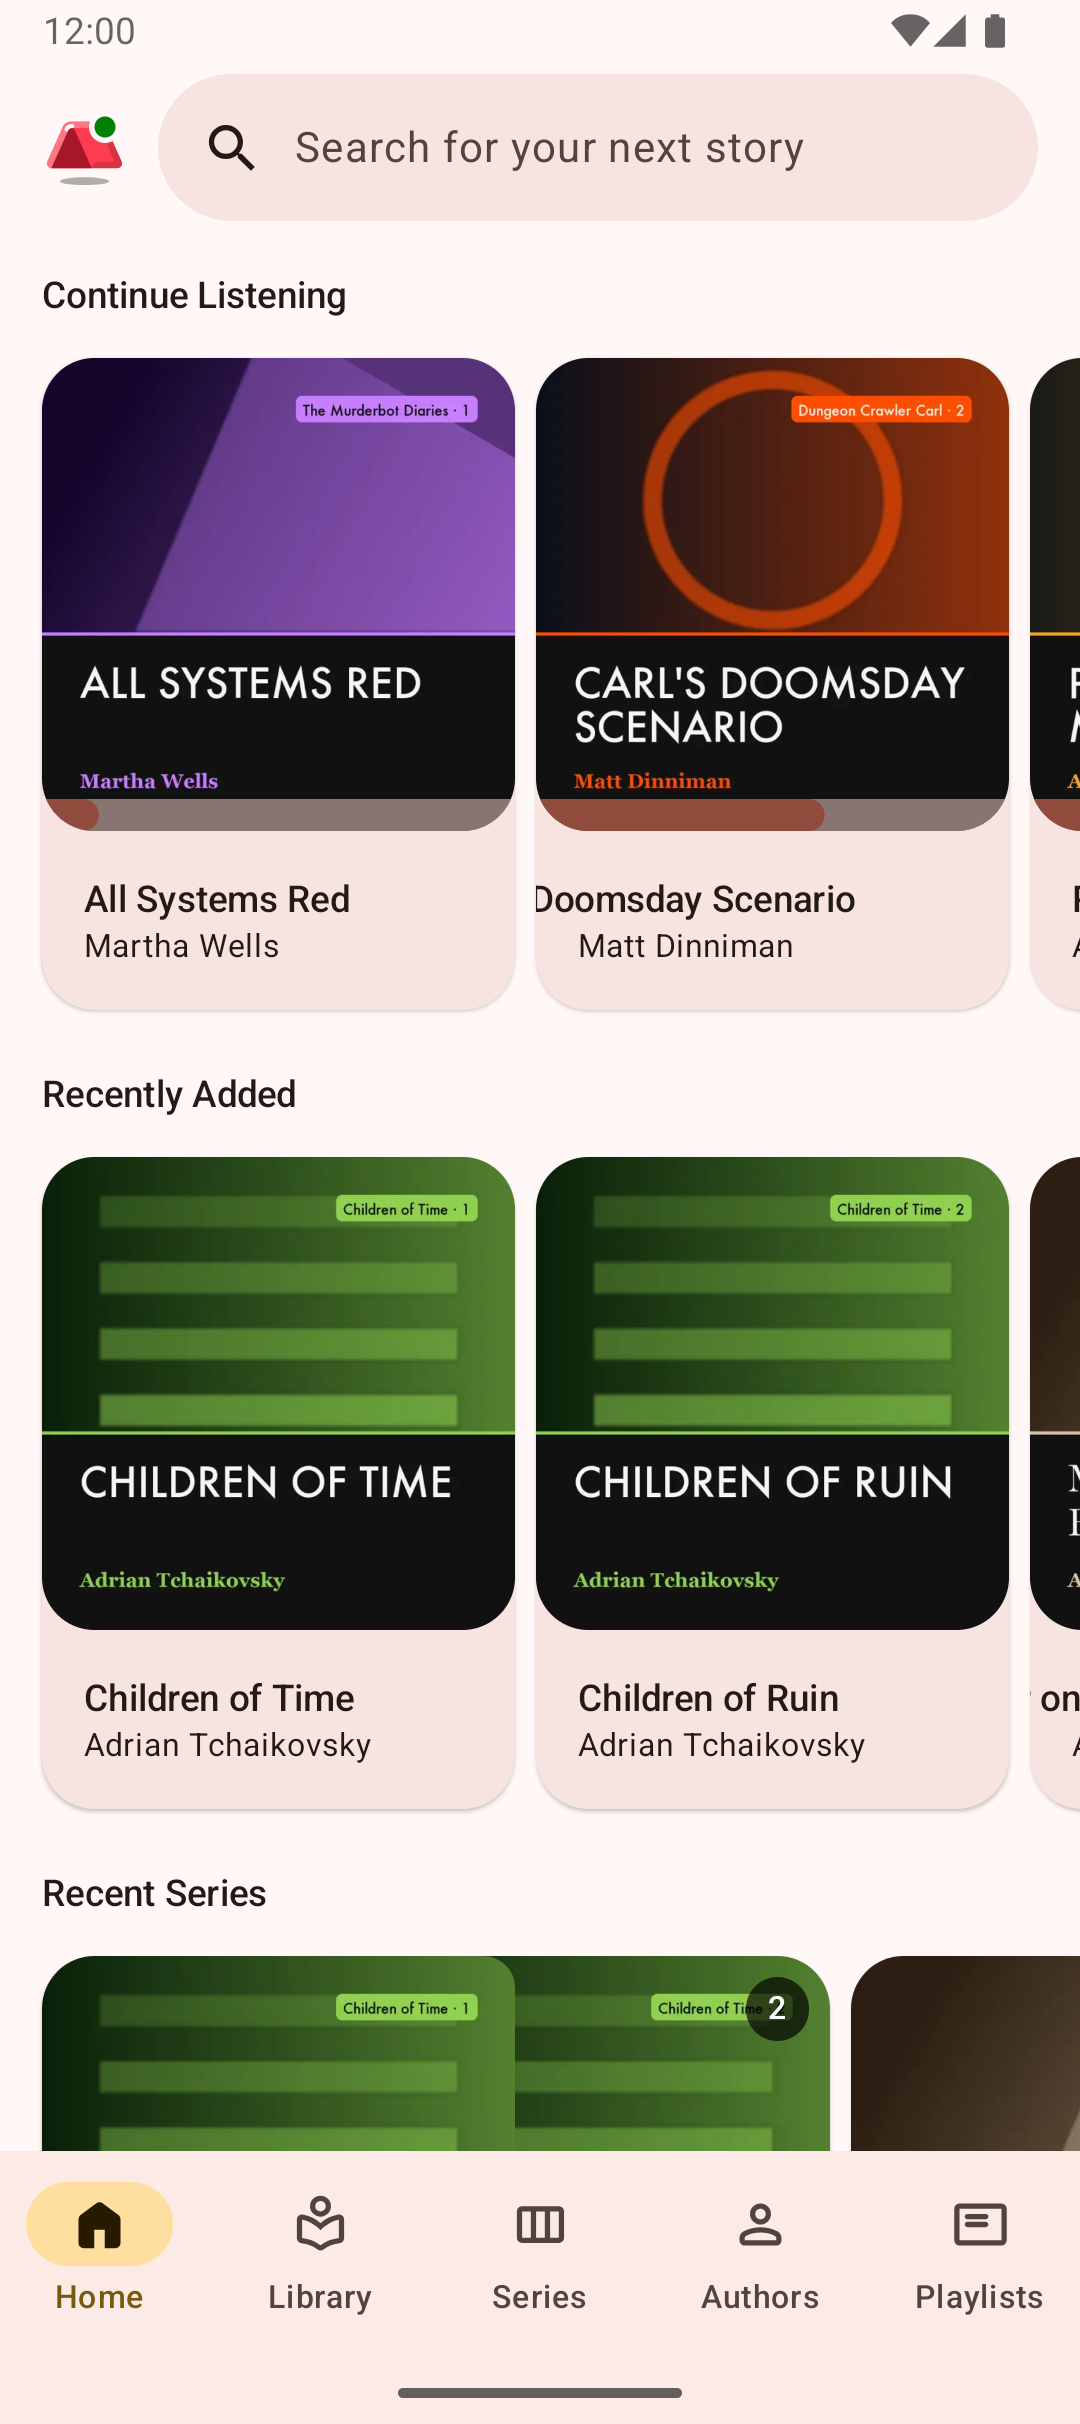
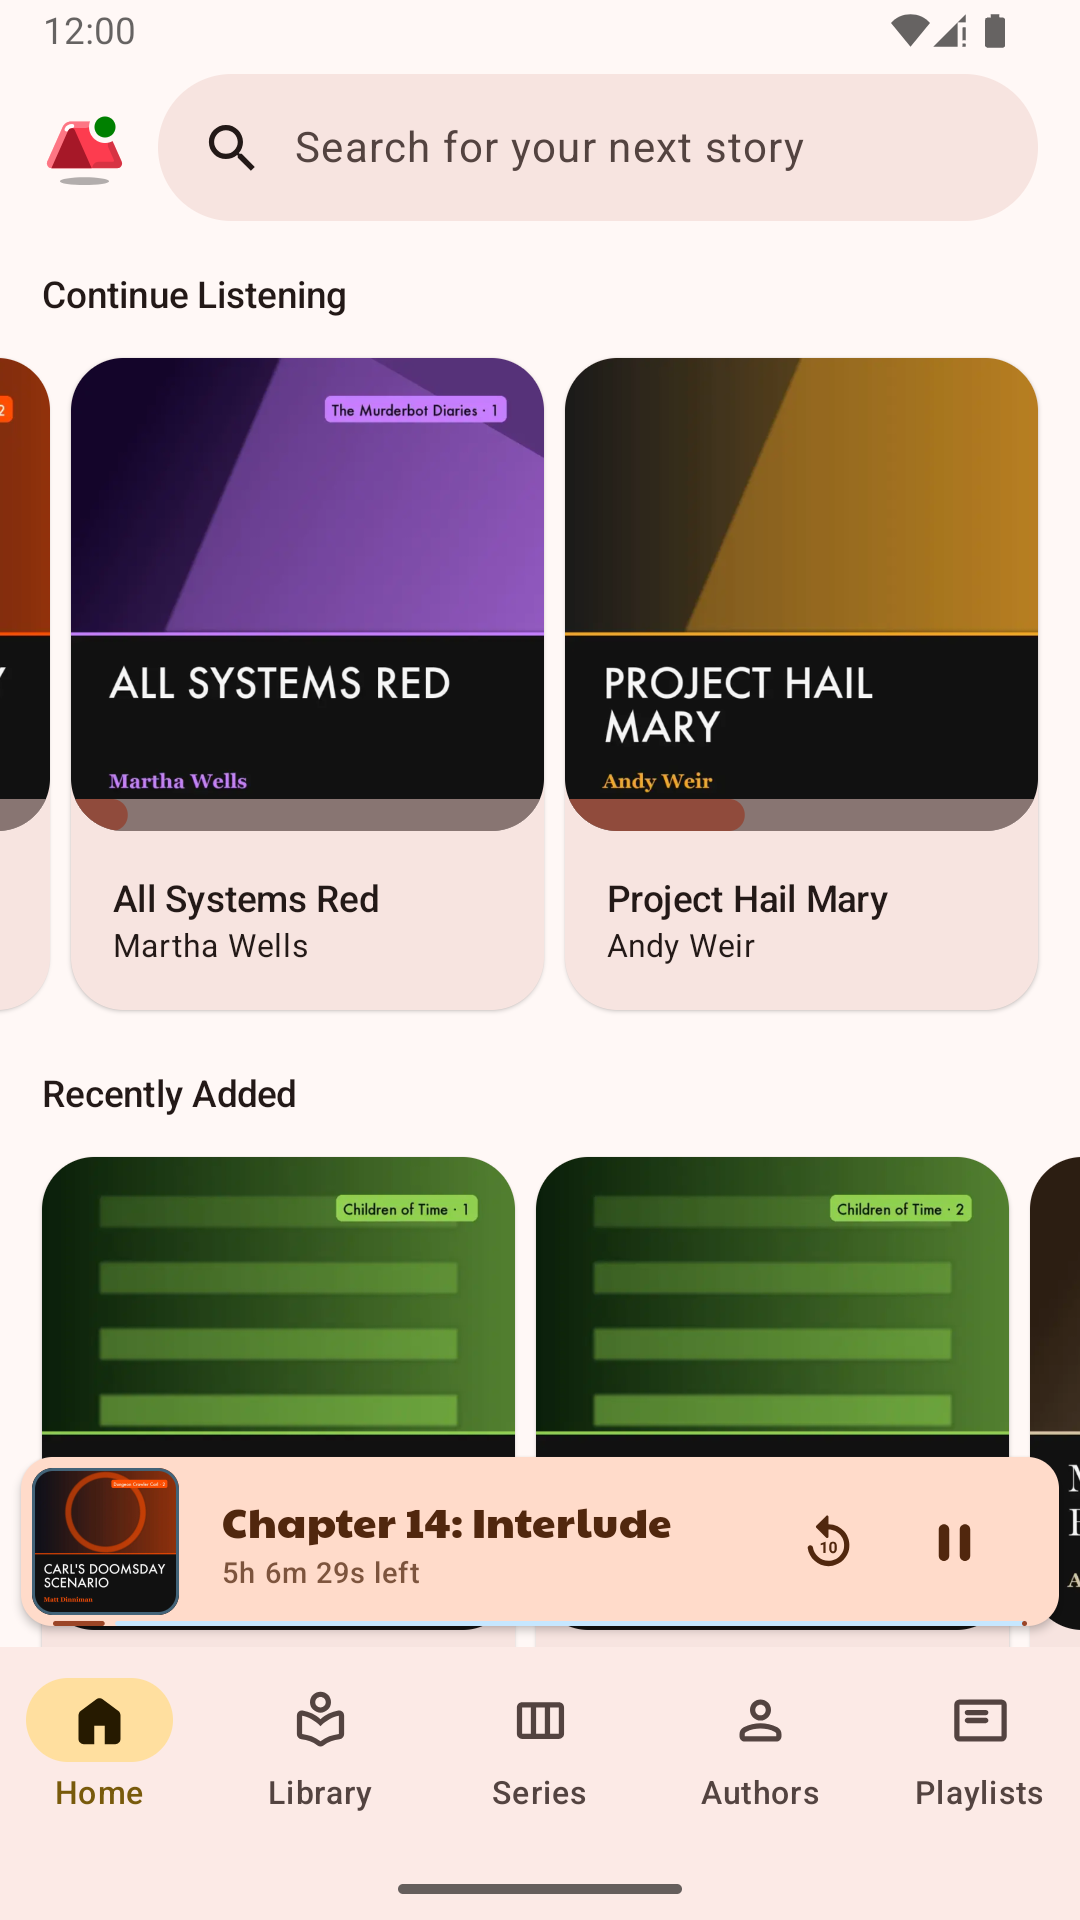
Reshoot store screenshots at 9:16 with the curated 8-shot spec
Tooling fixes found along the way: the emulator clock and the seeded
listening sessions now share one pinned instant (today 12:00) so the
statistics screen loads instead of spinning on a session in the device's
future; mobile data is disabled on the emulator so the RAT label cannot
appear in the status bar; the Home shot waits for playback before
navigating so the mini player shows its cover.

diff --git a/tools/screenshots/campfire_shots/emulator.py b/tools/screenshots/campfire_shots/emulator.py
@@ -6,7 +6,7 @@ import subprocess
 import time
 from pathlib import Path
 
-from .config import DeviceClass, WORK_DIR
+from .config import DeviceClass, WORK_DIR, pinned_now
 from .proc import ShotError, log, out, run, wait_until, which
 
 SDK = Path(os.environ.get("ANDROID_HOME") or os.environ.get("ANDROID_SDK_ROOT") or "~/Library/Android/sdk").expanduser()
@@ -258,6 +258,8 @@ def prepare(adb: Adb) -> None:
     adb("emu", "gsm", "voice", "home", check=False)
     adb("emu", "gsm", "data", "home", check=False)
     adb("emu", "gsm", "signal-profile", "4", check=False)
+    # Mobile data off (Wi-Fi carries the traffic) so the RAT label ("5G") can never join the bar.
+    adb.shell("svc", "data", "disable", check=False)
     set_clock(adb)
     # Hide the "USB debugging connected" notification icon
     adb.shell("setprop", "persist.adb.notify", "0", check=False)
@@ -267,9 +269,9 @@ def prepare(adb: Adb) -> None:
     adb.shell("cmd", "statusbar", "send-disable-flag", "notification-icons", check=False)
 
 
-def set_clock(adb: Adb, hhmm: str = "1200") -> None:
-    """Pin the device clock (needs root). Called before every capture so it never drifts."""
-    adb.shell("date", f"0821{hhmm}2026.00", check=False)
+def set_clock(adb: Adb) -> None:
+    """Pin the device clock to `pinned_now()` (needs root). Called before every capture so it never drifts."""
+    adb.shell("date", pinned_now().strftime("%m%d%H%M%Y.%S"), check=False)
     adb.shell("am", "broadcast", "-a", "android.intent.action.TIME_SET", check=False)
 
 

diff --git a/tools/screenshots/campfire_shots/server.py b/tools/screenshots/campfire_shots/server.py
@@ -10,7 +10,7 @@ import urllib.parse
 import urllib.request
 from pathlib import Path
 
-from .config import ServerConfig, Spec, WORK_DIR
+from .config import ServerConfig, Spec, WORK_DIR, pinned_now
 from .proc import ShotError, log, out, run, wait_until, which
 
 
@@ -256,7 +256,7 @@ class Fixture:
         # Listening sessions (drive the statistics screen). Seeded *before* progress so the
         # progress PATCH below is the newest write and wins for Continue Listening.
         if self.spec.sessions:
-            now_ms = int(time.time() * 1000)
+            now_ms = int(pinned_now().timestamp() * 1000)
             payload = []
             for seed in self.spec.sessions:
                 item = self.find_book(seed.title)

diff --git a/tools/screenshots/campfire_shots/config.py b/tools/screenshots/campfire_shots/config.py
@@ -1,9 +1,17 @@
 import os
 import tomllib
+from datetime import datetime
 from dataclasses import dataclass, field
 from pathlib import Path
 
 from .proc import ShotError
+
+
+def pinned_now() -> datetime:
+    """The instant every run pretends it is: today at 12:00 local. The emulator clock is pinned to it
+    and Fixture timestamps (listening sessions) are seeded relative to it, so "today" on the device
+    and "today" in the data always agree."""
+    return datetime.now().replace(hour=12, minute=0, second=0, microsecond=0)
 
 REPO_ROOT = Path(__file__).resolve().parents[3]
 TOOL_DIR = Path(__file__).resolve().parents[1]
